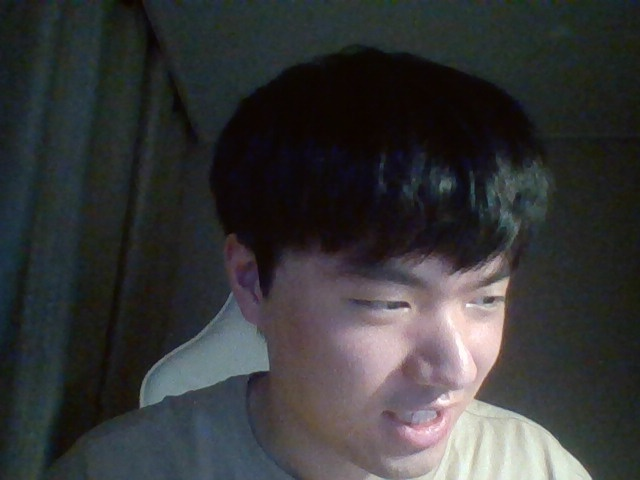
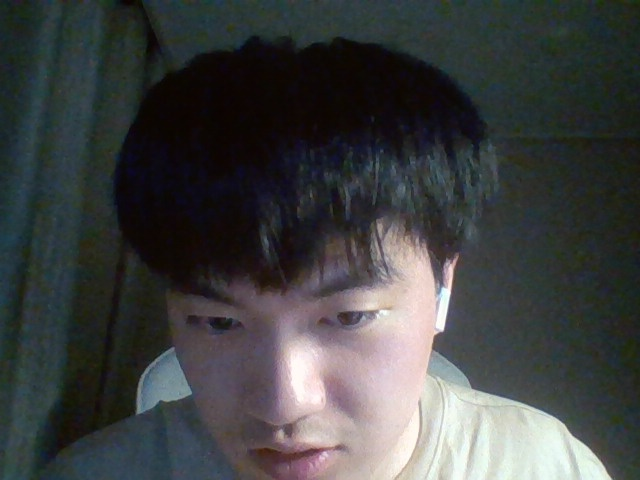
fix: combine prompts into single user role and extract thinking tokens for Reasoning models

diff --git a/rag/chain.py b/rag/chain.py
@@ -25,10 +25,19 @@ def call_ollama_native(prompt, system_prompt="", context="", question=""):
     """requests를 사용하여 Ollama에 직접 스트리밍 요청을 보냅니다. (Chat API 사용)"""
     url = f"{config.OLLAMA_BASE_URL}/api/chat"
     
-    # SYSTEM_PROMPT에서 분리하여 Chat API 규격에 맞게 메시지 구성
+    # [호환성 패치] 시스템 프롬프트를 지원하지 않는 커스텀/소형 모델을 위해 모든 프롬프트를 user role 1개로 통합
+    combined_prompt = (
+        "제공된 [참고 매뉴얼]을 바탕으로 질문에 대해 충실하게 답변해.\n\n"
+        "[수칙]\n"
+        "1. (필수) 매뉴얼에 있는 [출처], [위치] 메타데이터나 불필요한 마크다운 기호(###, ---)는 출력하지 마.\n"
+        "2. 긴급한 '대피/대처' 질문에는 핵심 결론부터 짧고 강하게 답변해.\n"
+        "3. 모든 답변은 음성으로 읽기 좋게 문장형(-습니다, -에요)으로 작성해.\n\n"
+        f"[참고 매뉴얼]\n{prompt}\n\n"
+        f"위 매뉴얼을 바탕으로 다음 질문에 대답해줘.\n질문: {question}"
+    )
+
     messages = [
-        {"role": "system", "content": "제공된 [참고 매뉴얼]을 바탕으로 질문에 대해 충실하게 답변해.\n\n[수칙]\n1. (필수) 매뉴얼에 있는 [출처], [위치] 메타데이터나 불필요한 마크다운 기호(###, ---)는 출력하지 마.\n2. 긴급한 '대피/대처' 질문에는 핵심 결론부터 짧고 강하게 답변해.\n3. 모든 답변은 음성으로 읽기 좋게 문장형(-습니다, -에요)으로 작성해."},
-        {"role": "user", "content": f"[참고 매뉴얼]\n{prompt}\n\n위 매뉴얼을 바탕으로 다음 질문에 대답해줘.\n질문: {question}"}
+        {"role": "user", "content": combined_prompt}
     ]
 
     payload = {
@@ -57,9 +66,16 @@ def call_ollama_native(prompt, system_prompt="", context="", question=""):
                 if line:
                     chunk = json.loads(line.decode("utf-8"))
                     # Chat API는 response 대신 message.content 안에 토큰이 들어있습니다.
-                    token = chunk.get("message", {}).get("content", "")
-                    if token:
+                    # [호환성 패치] Qwen 추론 모델(DeepSeek-R1 Distill 등)의 경우 "thinking" 필드로 출력될 수 있습니다.
+                    msg = chunk.get("message", {})
+                    token = msg.get("content", "")
+                    thinking_token = msg.get("thinking", "")
+                    
+                    if thinking_token:
+                        yield thinking_token
+                    elif token:
                         yield token
+                        
                     if chunk.get("done", False):
                         break
     except Exception as e:
